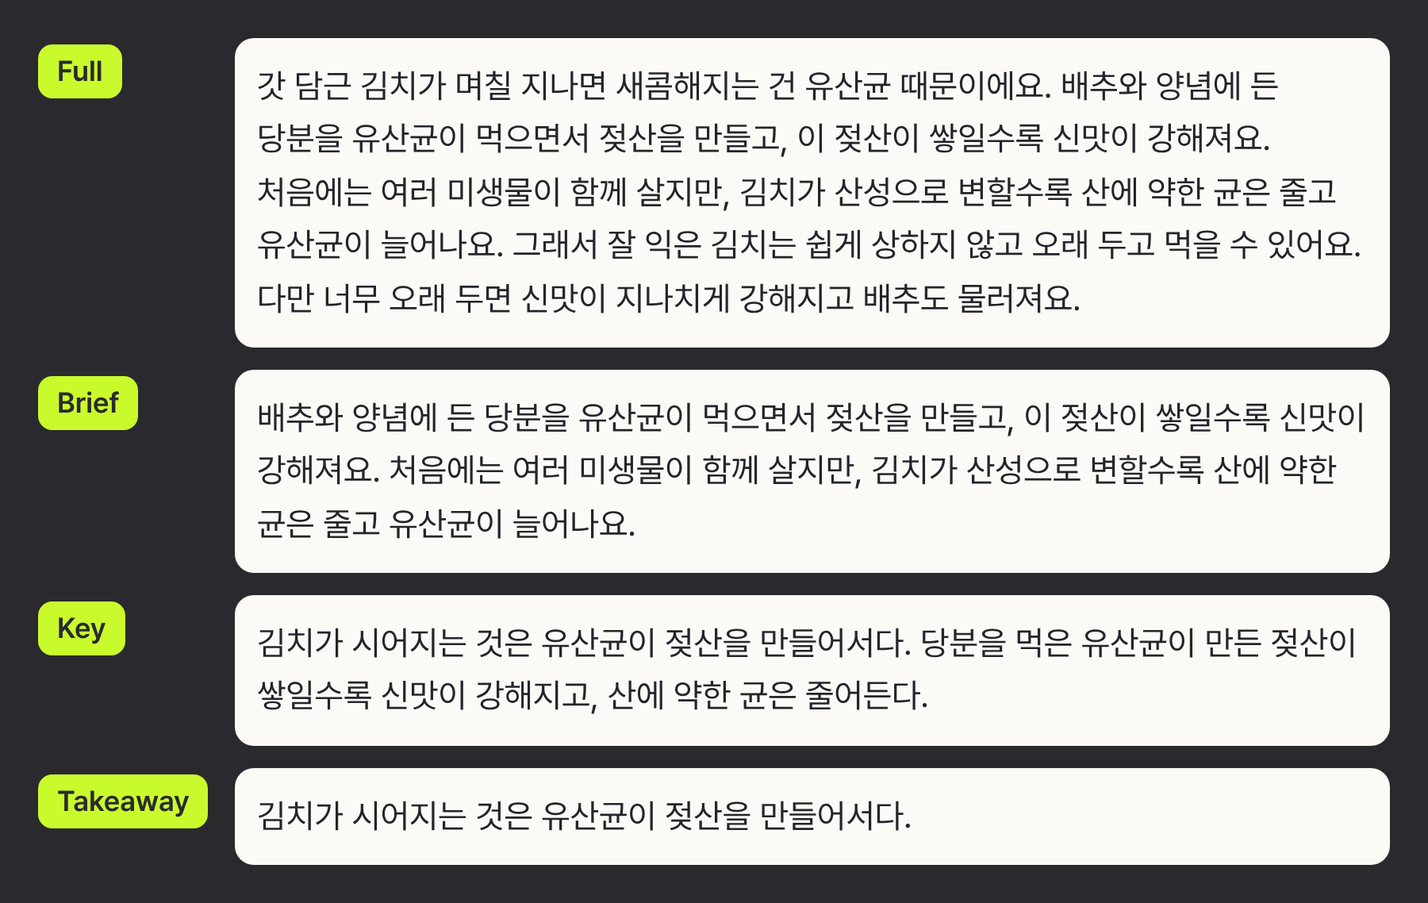
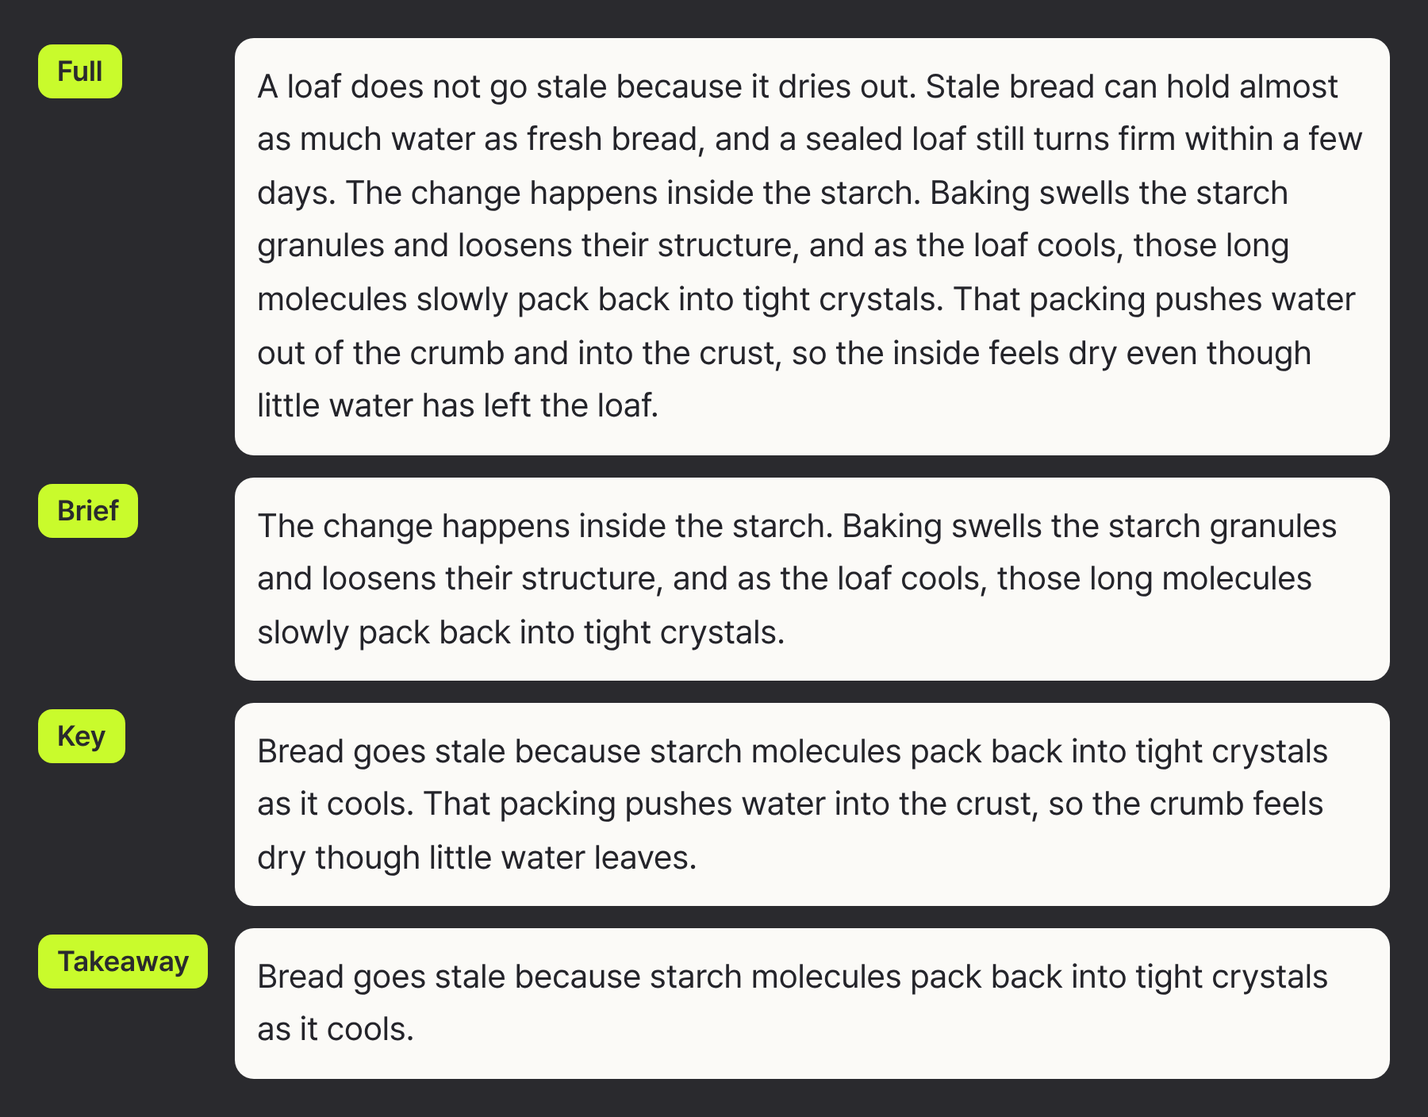
docs: keep the README in English and add a Korean page (#3)
A reader of the English README should not meet Korean text or Korean
screenshots. README.ko.md carries the full text in Korean, with the Korean
stills, and the capture script now makes both languages from the same pages.

diff --git a/scripts/capture-media.ts b/scripts/capture-media.ts
@@ -334,15 +334,17 @@ async function foldTo(page: Page, cdp: CDPSession, at: { x: number; y: number },
 }
 
 async function levelStills(page: Page, cdp: CDPSession): Promise<void> {
-	const { name, lang, scheme, viewport, textPx, target } = { name: 'levels-ko', lang: 'ko', scheme: 'light', viewport: { width: 780, height: 900 }, textPx: 21, target: '#target' } as const;
-	await load(page, { lang, scheme, viewport, textPx });
-	const at = await prefetch(page, cdp, target);
-	let level: Level = 0;
-	for (const next of [0, 1, 2, 3] as const) {
-		await foldTo(page, cdp, at, level, next);
-		level = next;
-		await page.screenshot({ path: path.join(stillsDir, `${name}-${next}.png`), clip: await clipOf(page, target, next, 14) });
-		if (next !== 0) noteLine({ page: lang, paragraph: target, level: next, ...(await readLine(page, target)) });
+	const target = '#target';
+	for (const lang of ['ko', 'en'] as const) {
+		await load(page, { lang, scheme: 'light', viewport: { width: 780, height: 900 }, textPx: 21 });
+		const at = await prefetch(page, cdp, target);
+		let level: Level = 0;
+		for (const next of [0, 1, 2, 3] as const) {
+			await foldTo(page, cdp, at, level, next);
+			level = next;
+			await page.screenshot({ path: path.join(stillsDir, `levels-${lang}-${next}.png`), clip: await clipOf(page, target, next, 14) });
+			if (next !== 0) noteLine({ page: lang, paragraph: target, level: next, ...(await readLine(page, target)) });
+		}
 	}
 }
 
@@ -417,9 +419,9 @@ async function popups(extension: string): Promise<void> {
 		// hintSeen stays unset, so the popup shows every way to fold, as it does before a reader's first fold.
 		await worker.evaluate(() => chrome.storage.local.set({ account: { kind: 'free' }, providers: { chosen: 'opengateway', opengateway: { apiKey: 'unused' } } }));
 		await page.goto(`${demoOrigin}/en/`, { waitUntil: 'load' });
-		for (const [readerLanguage, scheme] of [['en', 'light'], ['ko', 'dark']] as const) {
+		for (const readerLanguage of ['en', 'ko'] as const) {
 			await worker.evaluate((readerLanguage) => chrome.storage.sync.set({ readerLanguage }), readerLanguage);
-			await shootPopup(context, page, extensionId, scheme, path.join(stillsDir, `popup-${readerLanguage}-${scheme}.png`));
+			for (const scheme of ['light', 'dark'] as const) await shootPopup(context, page, extensionId, scheme, path.join(stillsDir, `popup-${readerLanguage}-${scheme}.png`));
 		}
 	} finally {
 		await context.close();
@@ -464,8 +466,10 @@ async function folds(extension: string, live: boolean): Promise<void> {
 const stills: { file: string; page: string; viewport: Viewport; scale: number; fullPage: boolean }[] = [
 	{ file: 'tfold-social.png', page: 'social.html', viewport: { width: 1280, height: 640 }, scale: 1, fullPage: false },
 	{ file: 'tfold-levels.png', page: 'levels.html', viewport: { width: 900, height: 400 }, scale: 2, fullPage: true },
+	{ file: 'tfold-levels-ko.png', page: 'levels.html?lang=ko', viewport: { width: 900, height: 400 }, scale: 2, fullPage: true },
 	{ file: 'tfold-themes.png', page: 'themes.html', viewport: { width: 860, height: 400 }, scale: 2, fullPage: true },
 	{ file: 'tfold-popup.png', page: 'popup.html', viewport: { width: 760, height: 400 }, scale: 2, fullPage: true },
+	{ file: 'tfold-popup-ko.png', page: 'popup.html?lang=ko', viewport: { width: 760, height: 400 }, scale: 2, fullPage: true },
 ];
 
 async function composeStills(outDir: string): Promise<void> {

diff --git a/docs/media/src/stills/levels.html b/docs/media/src/stills/levels.html
@@ -50,10 +50,14 @@
 	</head>
 	<body>
 		<main>
-			<div class="row"><div class="label">Full</div><img src="../assets/stills/levels-ko-0.png" alt="" /></div>
-			<div class="row"><div class="label">Brief</div><img src="../assets/stills/levels-ko-1.png" alt="" /></div>
-			<div class="row"><div class="label">Key</div><img src="../assets/stills/levels-ko-2.png" alt="" /></div>
-			<div class="row"><div class="label">Takeaway</div><img src="../assets/stills/levels-ko-3.png" alt="" /></div>
+			<div class="row"><div class="label">Full</div><img data-still="levels-LANG-0.png" alt="" /></div>
+			<div class="row"><div class="label">Brief</div><img data-still="levels-LANG-1.png" alt="" /></div>
+			<div class="row"><div class="label">Key</div><img data-still="levels-LANG-2.png" alt="" /></div>
+			<div class="row"><div class="label">Takeaway</div><img data-still="levels-LANG-3.png" alt="" /></div>
 		</main>
+		<script>
+			const lang = new URLSearchParams(location.search).get('lang') ?? 'en';
+			for (const image of document.images) image.src = `../assets/stills/${image.dataset.still.replace('LANG', lang)}`;
+		</script>
 	</body>
 </html>

diff --git a/docs/media/src/stills/popup.html b/docs/media/src/stills/popup.html
@@ -27,8 +27,12 @@
 	</head>
 	<body>
 		<main>
-			<img src="../assets/stills/popup-en-light.png" alt="" />
-			<img src="../assets/stills/popup-ko-dark.png" alt="" />
+			<img data-still="popup-LANG-light.png" alt="" />
+			<img data-still="popup-LANG-dark.png" alt="" />
 		</main>
+		<script>
+			const lang = new URLSearchParams(location.search).get('lang') ?? 'en';
+			for (const image of document.images) image.src = `../assets/stills/${image.dataset.still.replace('LANG', lang)}`;
+		</script>
 	</body>
 </html>

diff --git a/README.ko.md b/README.ko.md
@@ -1,0 +1,128 @@
+<p align="center">
+  <picture>
+    <source media="(prefers-color-scheme: dark)" srcset="assets/brand/tfold-wordmark-white.svg">
+    <img src="assets/brand/tfold-wordmark.svg" width="200" alt="tfold">
+  </picture>
+</p>
+
+<p align="center"><b>읽던 문단을, 그 자리에서 짧게.</b></p>
+
+<p align="center"><a href="README.md">English</a> | <b>한국어</b></p>
+
+<p align="center">
+  <a href="#빠른-시작">빠른 시작</a> |
+  <a href="#접는-방법">접는 방법</a> |
+  <a href="#문단이-접히는-방식">문단이 접히는 방식</a> |
+  <a href="docs/media/tfold-product.mp4">제품 영상</a> |
+  <a href="CONTRIBUTING.md">기여 안내</a> |
+  <a href="SECURITY.md">보안</a> |
+  <a href="LICENSE">AGPL-3.0</a>
+</p>
+
+<p align="center">
+  <img src="docs/media/tfold-hero.gif" width="800" alt="Ctrl 키를 누른 채 스크롤하면 웹 페이지의 문단이 그 자리에서 Full, Brief, Key, Takeaway 순서로 짧아지고, 단계마다 옆에 라임색 막대가 보이다가 다시 Full로 돌아와요.">
+</p>
+
+tfold는 읽고 있는 페이지에서 포인터 아래의 문단을 그 자리에서 줄여 주는 크롬 확장 프로그램이에요. 문단은 Full, Brief, Key, Takeaway 순서로 짧아졌다가 다시 길어지고, 문단마다 자기 단계를 기억해요. 따로 설치할 앱은 없고, AI 요약은 내 API 키로 받아요.
+
+**tfold는 아직 출시 전이에요.** 크롬 웹 스토어에는 아직 없어요. 지금 써 보려면 [최신 빌드를 받거나](https://github.com/hoddukzoa12/tfold/releases/latest/download/tfold-open.zip) 소스에서 빌드한 뒤 직접 불러오세요. 이렇게 불러온 사본은 스스로 업데이트되지 않아요.
+
+## 빠른 시작
+
+크롬이나 크로미움이 필요해요. 계정과 키는 없어도 돼요.
+
+빌드를 건너뛰려면 [`tfold-open.zip`](https://github.com/hoddukzoa12/tfold/releases/latest/download/tfold-open.zip)을 받아 지우지 않을 폴더에 푸세요. 크롬이 그 폴더에서 확장 프로그램을 읽어요.
+
+직접 빌드하려면 Node 22 이상이 필요해요.
+
+```sh
+git clone https://github.com/hoddukzoa12/tfold.git
+cd tfold
+npm ci
+npm run build
+```
+
+1. `chrome://extensions`를 열고 **개발자 모드**를 켜요.
+2. **압축해제된 확장 프로그램을 로드합니다**를 누르고 압축을 푼 폴더를 골라요. 직접 빌드했다면 `dist` 폴더를 골라요.
+3. 아무 글이나 열고 문단에 포인터를 올린 뒤, Ctrl 키(맥에서는 Cmd 키)를 누른 채 아래로 스크롤해요. 문단이 네트워크 요청 없이 그 문단의 글로 만든 빠른 요약으로 바로 접혀요. 위로 스크롤하면 다시 펼쳐져요.
+4. AI 요약을 받으려면 툴바의 tfold 아이콘을 누르고 **설정 열기**를 눌러요. **AI 요약**에서 **OpenGateway에서 키 받기**로 키를 받아 **OpenGateway API 키**에 붙여 넣고 **키 저장**을 눌러요. 저장하기 전에 tfold가 그 키를 OpenGateway에 보내 확인해요. [OpenGateway](https://opengateway.ai) 대신 [OpenRouter](https://openrouter.ai)를 쓰려면 먼저 **고급**에서 **대신 OpenRouter 쓰기**를 눌러요.
+
+설정 화면이 영어로 나오면 **언어 / Language**에서 **한국어**를 고르세요.
+
+다시 빌드한 뒤에는 `chrome://extensions`의 tfold 카드에서 새로고침을 눌러요. 크롬을 다시 시작하기만 하면 이전 서비스 워커가 그대로 남아요.
+
+이 빌드는 오픈 에디션이에요. 크롬 웹 스토어용 빌드는 `npm run build:store`이고, 에디션의 차이는 [CONTRIBUTING.md](CONTRIBUTING.md)에 있어요.
+
+## 접는 방법
+
+| 하고 싶은 일 | Windows, Linux | Mac |
+| --- | --- | --- |
+| 한 단계 접기 | Ctrl 키를 누른 채 아래로 스크롤, 또는 Alt+Shift+↓ | Cmd(⌘) 키를 누른 채 아래로 스크롤, 또는 ⌥⇧↓ |
+| 한 단계 펼치기 | Ctrl 키를 누른 채 위로 스크롤, 또는 Alt+Shift+↑ | Cmd(⌘) 키를 누른 채 위로 스크롤, 또는 ⌥⇧↑ |
+
+키를 누르면 초록 선이 접을 문단을 표시하고, 그 상태로 스크롤하면 접혀요. 맥에서는 Cmd 키를 누른 채 두 손가락으로 스크롤해요. 단축키도 같아요. 앞의 두 키를 누르고 있다가 화살표를 눌러요. Cmd+↓와 Ctrl+↓는 브라우저가 그대로 써요.
+
+- **초록 선.** 단축키의 두 키를 누르면 바로 나타나요. 키 하나만 누르면 약 150 ms 뒤에 나타나고, 다른 키를 누르거나 클릭하거나 키를 떼면 바로 사라져요. 그래서 Cmd+C를 누를 때는 보이지 않아요. 제목, 빈 곳, 그림 위에서는 그 단에서 가장 가까운 문단을 표시해요. 선이 보이면 휠이나 화살표는 선이 표시한 문단을 접어요.
+- **여러 문단.** 키를 누른 채 포인터를 옮겨요. 아래로 옮기면 선이 늘어나고, 되돌리면 줄어들고, 시작한 곳보다 위로 옮기면 위쪽을 골라요. 문단 사이의 제목과 그림은 건너뛰고, 사이드바나 다른 영역은 포함하지 않아요. 다른 요소에 가려졌거나 다른 층에 있는 문단도 마찬가지예요. 그래서 대화상자, 서랍, 고정 막대에서 시작한 묶음은 그 안에 머물고, 페이지에서 시작한 묶음은 그 안으로 들어가지 않아요. 페이지 위에 고정된 막대 밑으로 스크롤되어 들어갔을 뿐인 문단은 묶음에 남아요. 접으면 묶음 전체가 시작한 문단의 다음 단계로 함께 움직이고, 묶음은 키를 뗄 때까지 유지돼요. 한 묶음은 최대 20문단이고, 그보다 많으면 선이 멈추고 그 사실을 알려 줘요.
+- **스크롤 키.** 설정의 **접는 방법**에서 맥의 Cmd(맥 기본값), Ctrl(맥에서는 Control, 맥 외 기본값), Alt(맥에서는 Option) 중에서 고르거나 끌 수 있어요. 이미 고른 키는 그대로 유지돼요. 이 키를 누르고 있어도 편집기, 캔버스, 지도, 프레임 위에서는 선이 나타나지 않고, Ctrl 키일 때는 그림 위에서도 나타나지 않아요. 그런 곳에서 휠은 페이지와 브라우저가 그대로 써요. 선이 나타나기 전에 돌린 휠은 그 아래 문단만 접고, 그런 문단이 없으면 키를 뗄 때까지 브라우저가 써요. 그래서 Ctrl 키와 빠른 스크롤로 하는 확대는 그대로 돼요. Cmd+C나 Cmd+클릭처럼 키의 뜻이 바뀐 뒤나, 페이지가 휠을 가져간 뒤에도 휠은 브라우저와 페이지에 남아요. tfold는 어디서든 브라우저의 확대 동작을 건드리지 않아요.
+- **단축키.** 단축키는 선이 표시한 문단을 접어요. 포인터가 페이지에 없으면 키보드 포커스가 있는 문단을, 그것도 없으면 창 가운데에 가장 가까운 문단을 접어요. 대화상자가 열려 있으면 포인터만 봐요.
+- **선이 나타나지 않을 때.** 입력란에 글을 쓰는 동안, 글자를 선택한 동안, 대화상자 뒤, tfold를 끈 사이트, 스토어 에디션에서 로그아웃한 동안, 화면에 문단이 없을 때, 프레임 안, 위아래 끝이 모두 보이지 않을 만큼 창을 가득 채운 문단 옆에서는 선이 나타나지 않아요. 스크롤되어 화면 밖으로 나간 묶음도 선이 나타나지 않아요. 마지막 두 경우에는 휠과 화살표가 아무것도 접지 않고 페이지에 남아요. 포커스가 프레임이나 주소창처럼 페이지 밖에 있으면 페이지는 키를 뗀 것을 알 수 없어요. 그래서 그때는 키를 누른 상태로 보인 마지막 포인터 이동이나 스크롤 뒤 0.5초 동안만 선이 남고, 다음 동작에서 다시 나타나요. 접어도 시작한 문단은 그 자리에 있어요. 다만 더 스크롤할 곳이 없는 페이지의 맨 위나 맨 아래는 예외예요.
+
+설정에서 바로 접어 보려면 **여기서 접어 보기**로 가서 연습 문단에 포인터를 올리고 스크롤 키를 누른 채 스크롤해요. 네트워크 요청 없이 접혀요. 키가 없으면 실제 빠른 요약을 보여 주고, 2단계에서는 AI 요약 예시를 옆에 함께 보여 줘요. 키가 있으면 확장 프로그램에 들어 있는 AI 요약 예시를 보여 줘요.
+
+## 문단이 접히는 방식
+
+| 단계 | 읽게 되는 글 |
+| --- | --- |
+| Full | 페이지의 원래 문단이에요. |
+| Brief | AI가 문단에서 고른 문장들이에요. 페이지의 마크업 그대로이고 링크도 동작해요. |
+| Key | 문단의 요점과 한 문장을 더해 AI가 써 줘요. |
+| Takeaway | 요점만 AI가 한 문장으로 써 줘요. |
+
+tfold는 네트워크 요청 없이 페이지의 글로 만든 빠른 요약을 바로 보여 주고, AI의 글이 도착하면 바꿔 넣어요. 키가 없으면 빠른 요약이 그대로 남아요. AI가 걸리는 시간은 서비스에 따라 달라요.
+
+<p align="center">
+  <img src="docs/media/tfold-levels-ko.png" width="760" alt="문단 하나를 Full, Brief, Key, Takeaway 네 단계로 나란히 놓은 그림이에요. 원래 길이의 문단이 마지막에는 한 문장으로 줄어요.">
+</p>
+
+접힌 글은 페이지의 색과 글꼴을 따라가고, 페이지의 어두운 테마도 따라가요.
+
+<p align="center">
+  <img src="docs/media/tfold-themes.png" width="760" alt="같은 글을 밝은 테마와 어두운 테마로 보여 주고, 두 화면 모두 첫 문단을 Takeaway로 접은 그림이에요.">
+</p>
+
+툴바 창에서는 지금 사이트에서 tfold를 켜거나 꺼요. 어느 서비스가 문단을 접는지도 보여 주고, 키가 없으면 **키 넣기** 버튼을 보여 줘요. 웹 페이지에서 처음 접기 전에는 단축키와 스크롤 키가 그 줄 위에 보이고, 접은 뒤에는 그 줄 아래로 옮겨 가요.
+
+<p align="center">
+  <img src="docs/media/tfold-popup-ko.png" width="640" alt="툴바 창을 밝은 테마와 어두운 테마로 보여 주는 그림이에요. 둘 다 키가 저장된 상태예요.">
+</p>
+
+설정에는 화면 언어를 고르는 곳도 있고, 다른 언어로 된 문단을 Key 단계부터 내가 읽는 언어로 접는 스위치도 있어요. 이 스위치는 기본으로 꺼져 있고 저장된 키가 있어야 해요.
+
+## tfold가 보내는 것
+
+키를 저장하지 않으면 페이지 글을 보내지 않아요. 키를 저장했다면 아직 AI 요약이 없는 문단을 접을 때, 그 문단과 같은 구역의 이웃 문단 일부, 페이지 제목과 제목들을 내 키와 함께 내가 고른 서비스로 보내요. 묶어서 접은 문단들도 이렇게 나뉘어 가요. 문단을 표시하는 것만으로는 아무것도 보내지 않고, 페이지에서 처음 접기 전에는 페이지 글이 나가지 않아요. 번역 스위치를 켜면 번역이 필요한 다음 문단들을 접기 전에 보낼 수 있어요. 키를 저장할 때는 동작을 확인하려고 그 키만 해당 서비스로 보내요. 자세한 내용과 문제를 알리는 방법은 [SECURITY.md](SECURITY.md)에 있어요.
+
+## 빌드와 테스트
+
+`npm ci`와 `npx playwright install --with-deps chromium`으로 한 번 설치한 뒤 실행해요.
+
+```sh
+npm run lint && npm run typecheck && npm test
+npm run e2e -- lanes/p1
+npm run perf:boot
+```
+
+모든 스크립트와 레인, 실제 키가 필요한 레인은 [CONTRIBUTING.md](CONTRIBUTING.md)에 있어요.
+
+## 이 페이지의 이미지와 영상
+
+히어로 GIF, [제품 영상](docs/media/tfold-product.mp4), [소셜 미리보기](docs/media/tfold-social.png), 스틸 이미지는 실제 빌드로 이 저장소를 위해 쓴 페이지를 접어서 만들었어요. Key와 Takeaway의 글은 편집하지 않은 AI 출력이고, [`model-lines.json`](docs/media/src/model-lines.json)에 기록되어 있어요. 어두운 띠와 화살표 포인터는 편집에서 더했고, 촬영할 때 AI의 답을 미리 받아 두어서 GIF에는 기다리는 시간이 없어요. 다시 만드는 방법은 [`docs/media/src/README.md`](docs/media/src/README.md)에 있어요.
+
+## 라이선스
+
+tfold의 라이선스는 GNU Affero General Public License v3.0 only(AGPL-3.0-only)예요. `LICENSE`를 보세요. 이 번역은 안내용이고, 법적 내용은 영어 원문이 기준이에요.
+
+TextFold에서 가져온 파일은 Apache License 2.0(`LICENSES/Apache-2.0.txt`)으로도 쓸 수 있고, `NOTICE`에 그 파일 목록과 TextFold의 저작자 표시가 있어요. 수정한 tfold를 네트워크 서비스로 운영하면, AGPL에 따라 그 서비스의 사용자에게 소스를 제공해야 해요.
+
+AGPL은 코드에 적용돼요. tfold 이름이나 로고의 사용을 허락하지는 않으므로, 포크는 자기 이름과 로고를 써야 해요.

diff --git a/README.md b/README.md
@@ -7,6 +7,8 @@
 
 <p align="center"><b>Shorten the paragraph you are reading, right where it is.</b></p>
 
+<p align="center"><b>English</b> | <a href="README.ko.md">한국어</a></p>
+
 <p align="center">
   <a href="#quick-start">Quick start</a> |
   <a href="#ways-to-fold">Ways to fold</a> |
@@ -24,10 +26,6 @@
 tfold is a Chrome extension that shortens the paragraph under the pointer, in place, on the page you are reading. Each paragraph steps through Full, Brief, Key and Takeaway, and back, and keeps its own level. tfold needs no local app, and the model text comes from your own API key.
 
 **tfold is pre-release.** It is not on the Chrome Web Store yet. To try it today, [download the latest build](https://github.com/hoddukzoa12/tfold/releases/latest/download/tfold-open.zip) or build it from source, then load it unpacked. A copy loaded this way does not update itself.
-
-> **한국어 요약.** tfold는 읽고 있는 문단을 그 자리에서 줄여 주는 크롬 확장 프로그램이에요. 문단에 포인터를 올리고 Ctrl 키(맥에서는 Cmd 키)를 누른 채 아래로 스크롤하거나 Alt+Shift+↓ (맥에서는 ⌥⇧↓)를 누르면 Full, Brief, Key, Takeaway 순서로 짧아지고, 위로 스크롤하거나 ↑를 누르면 다시 길어져요. 키를 누르고 있으면 초록 선이 접힐 문단을 표시하고, 누른 채 포인터를 옮기면 여러 문단을 함께 접을 수 있어요. Key와 Takeaway는 직접 넣은 OpenGateway나 OpenRouter 키로 AI가 써 줘요. 아직 출시 전이라 크롬 웹 스토어에는 없고, 소스를 빌드해서 직접 설치해야 해요.
->
-> 최신 릴리스의 `tfold-open.zip`을 푼 폴더나 `npm run build`로 만든 `dist`를 불러오면 계정도 키도 없이 바로 접혀요. 키가 없으면 빠른 요약으로 접혀요. 설정 화면이 영어로 나오면 **언어 / Language**에서 **한국어**를 고르세요. **여기서 접어 보기**의 문단은 키 없이도 접혀요. AI 요약을 받으려면 **AI 요약**에서 **OpenGateway에서 키 받기**로 키를 받아 **OpenGateway API 키**에 붙여 넣고 **키 저장**을 눌러요. 저장할 때 tfold가 그 키를 OpenGateway에 보내 확인해요. OpenRouter를 쓰려면 먼저 **고급**에서 **대신 OpenRouter 쓰기**를 눌러요.
 
 ## Quick start
 
@@ -82,7 +80,7 @@ To try a fold without leaving settings, go to **Try it here**, point at the test
 tfold shows a quick summary from the page's own text at once, with no network request, and swaps in the model's text when it arrives. Without a key you keep the quick summary. How long the model takes depends on your provider.
 
 <p align="center">
-  <img src="docs/media/tfold-levels.png" width="760" alt="One Korean paragraph shown at all four levels, from five lines at Full to one line at Takeaway.">
+  <img src="docs/media/tfold-levels.png" width="760" alt="One paragraph shown at all four levels, from its full length at Full to one sentence at Takeaway.">
 </p>
 
 A fold takes its colors and type from the page, including a page's own dark theme.
@@ -94,7 +92,7 @@ A fold takes its colors and type from the page, including a page's own dark them
 The toolbar popup turns tfold on or off for the site you are on. It also shows which provider folds your paragraphs, or an **Add a key** button when no key is saved. Before your first fold on a web page, the popup shows the shortcuts and the scroll key above that row. After that fold, they move below that row.
 
 <p align="center">
-  <img src="docs/media/tfold-popup.png" width="640" alt="The content of the toolbar popup in English on a light theme and in Korean on a dark theme, with a key saved.">
+  <img src="docs/media/tfold-popup.png" width="640" alt="The content of the toolbar popup on a light theme and on a dark theme, with a key saved.">
 </p>
 
 Settings also has a language setting for the interface, and a switch that folds paragraphs in another language into your reading language from Key on. The switch is off by default and needs a saved key.

diff --git a/docs/media/src/README.md b/docs/media/src/README.md
@@ -6,6 +6,7 @@ This directory rebuilds `docs/media/tfold-*`. Nothing here ships in the extensio
 - `../../../scripts/capture-media.ts` loads a real extension build in Playwright's Chromium, folds the demo page with a real Control key and wheel events, seeks each morph frame by frame, and writes the footage and the raw stills to `assets/`.
 - `hero/` and `film/` are [HyperFrames](https://github.com/heygen-com/hyperframes) projects that compose the footage into the hero GIF and the product video. Their band and pointer are added in editing, and the pointer sits where the real pointer was.
 - `stills/` composes the social preview and the README stills from the raw stills.
+- `README.md` shows the English stills. `README.ko.md` shows `tfold-levels-ko.png` and `tfold-popup-ko.png`.
 - `model-lines.json` records the unedited model output of the last live capture, with token counts and an estimate at list price.
 
 ## Rebuild

diff --git a/CONTRIBUTING.md b/CONTRIBUTING.md
@@ -61,6 +61,8 @@ The live test in `e2e/lanes/p5f.spec.ts` needs both keys. Some lanes also need `
 
 Never commit a key, and never put one in a log, a screenshot or a video.
 
+A change to `README.md` also changes `README.ko.md` in the same pull request.
+
 ## Scripts
 
 - `npm run build` runs `scripts/build.ts`. It bundles the content script, the service worker, the settings page and the toolbar popup with esbuild, and copies the manifest, the pages, the shared stylesheet, the store name and description in `src/_locales/` and the icons into `dist/`, as the open edition. Every other string the extension shows lives in `src/strings/`, in English and Korean, and the reader picks the language in settings.
